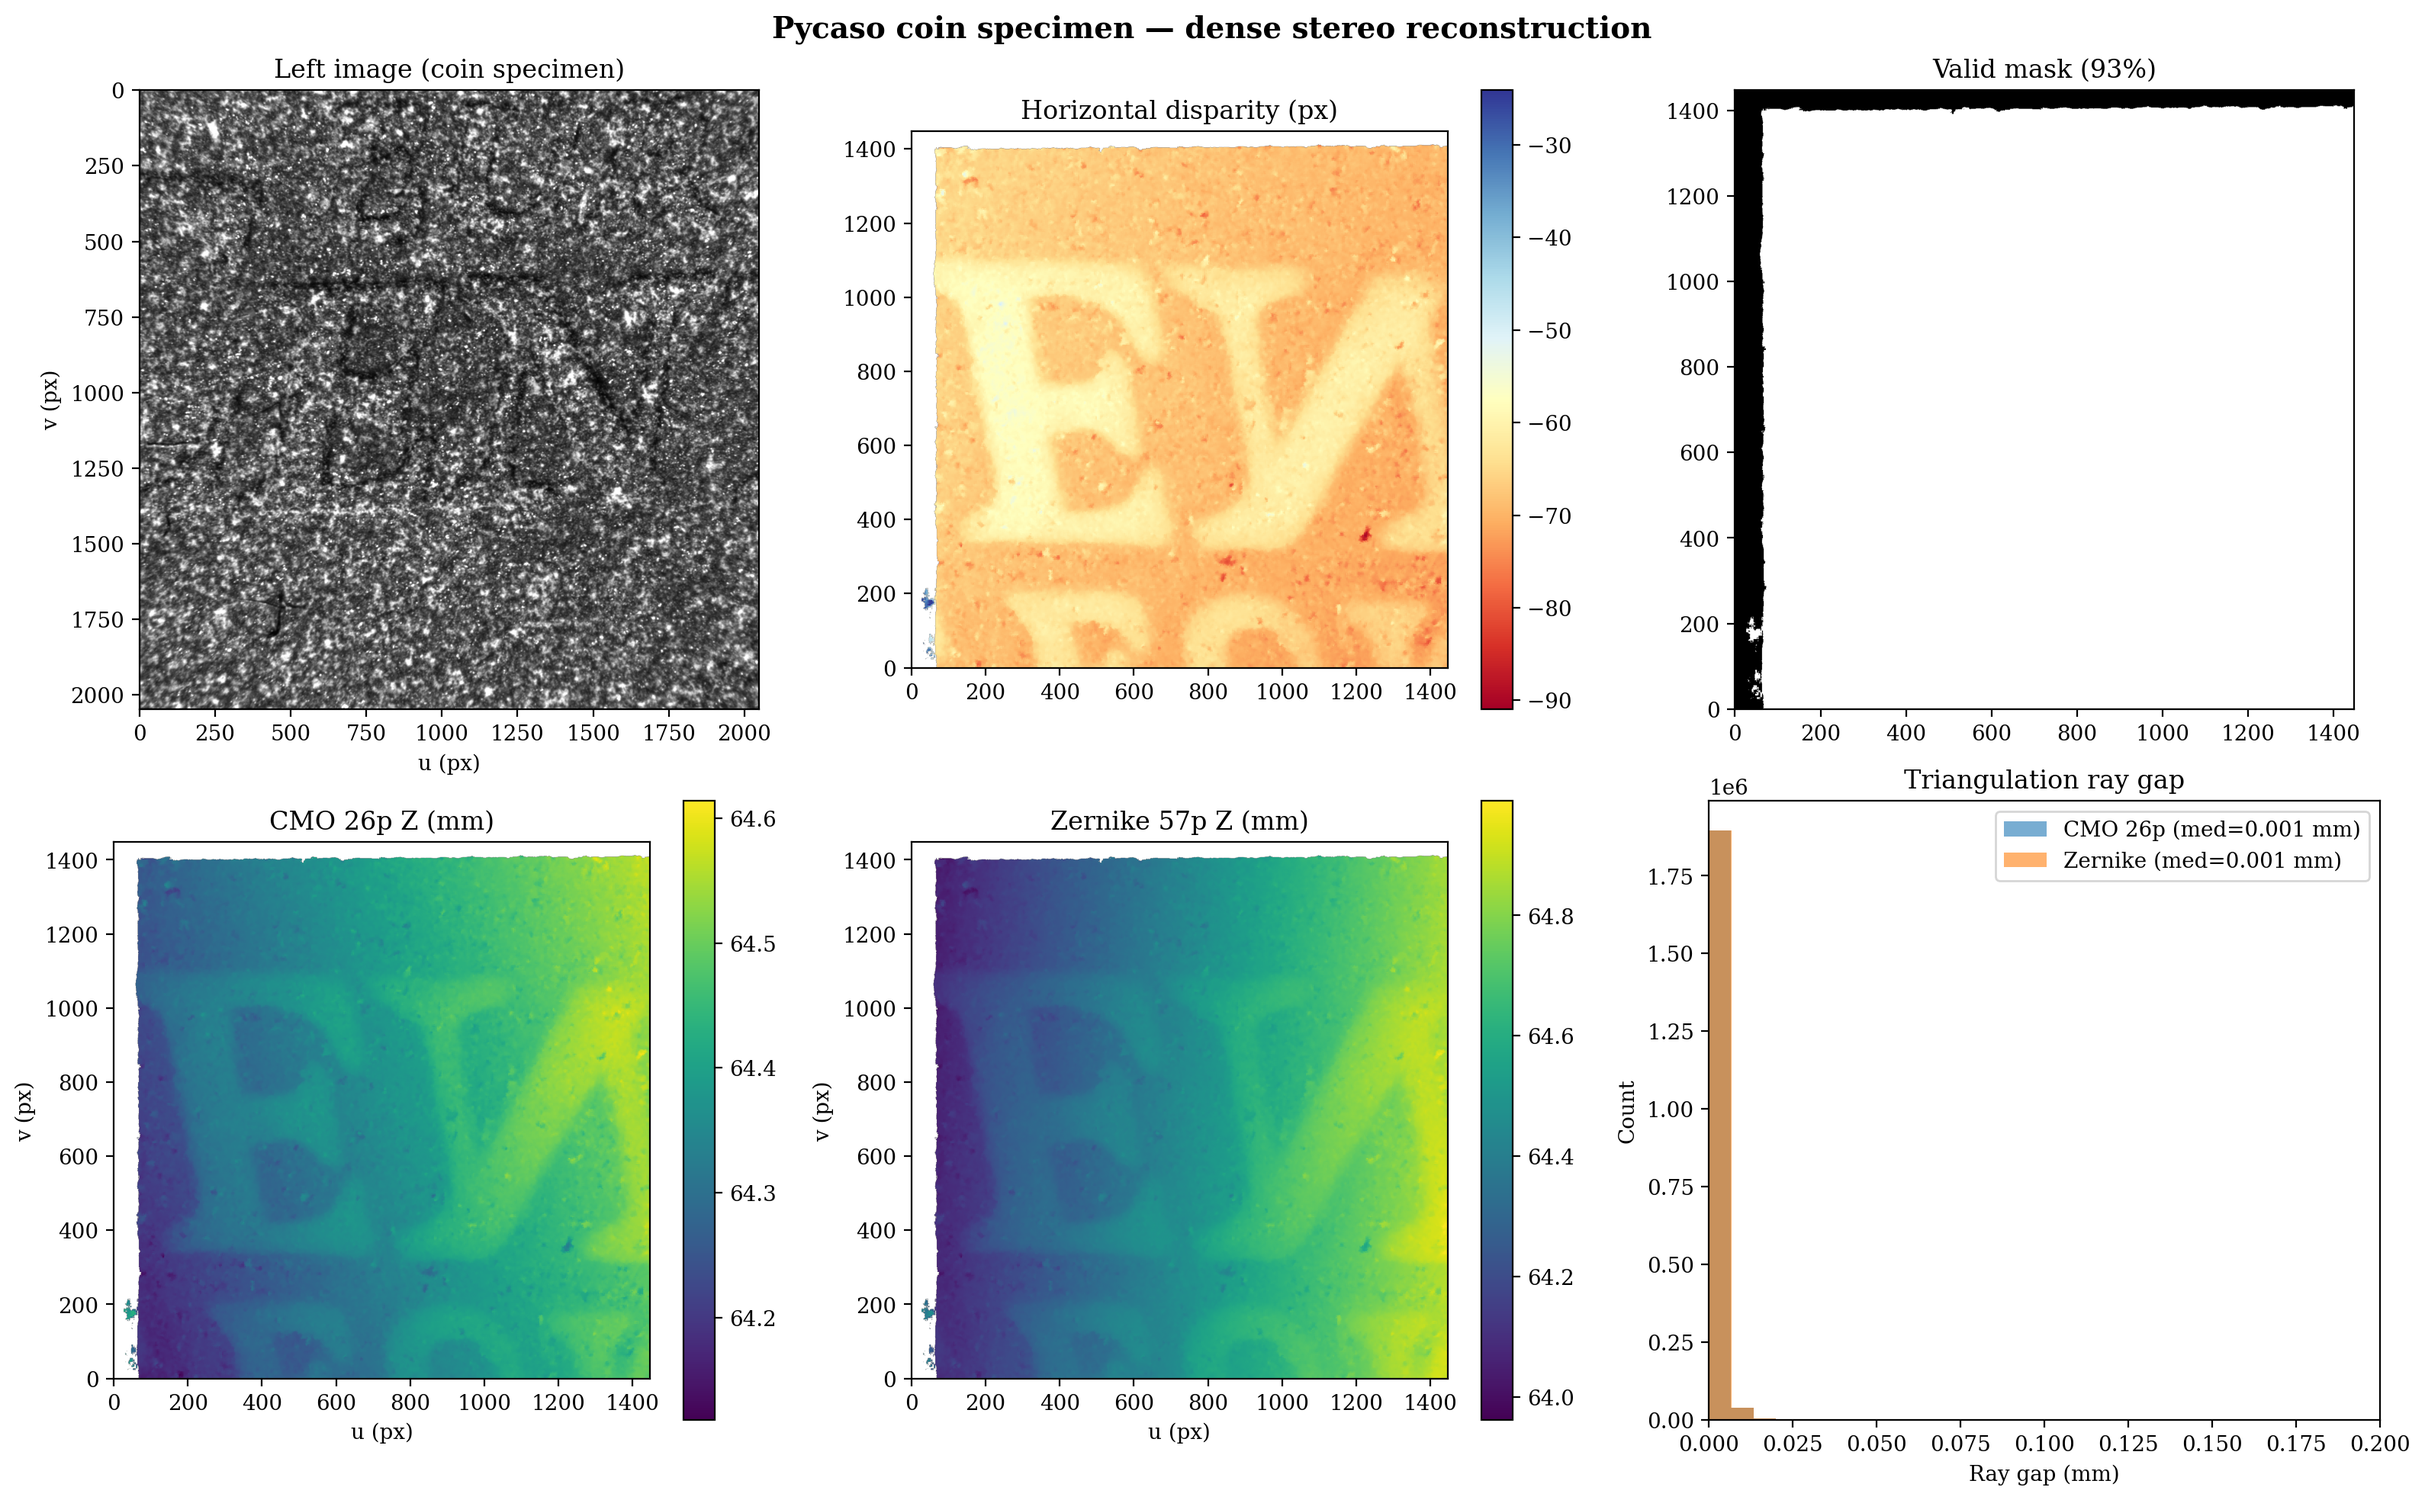
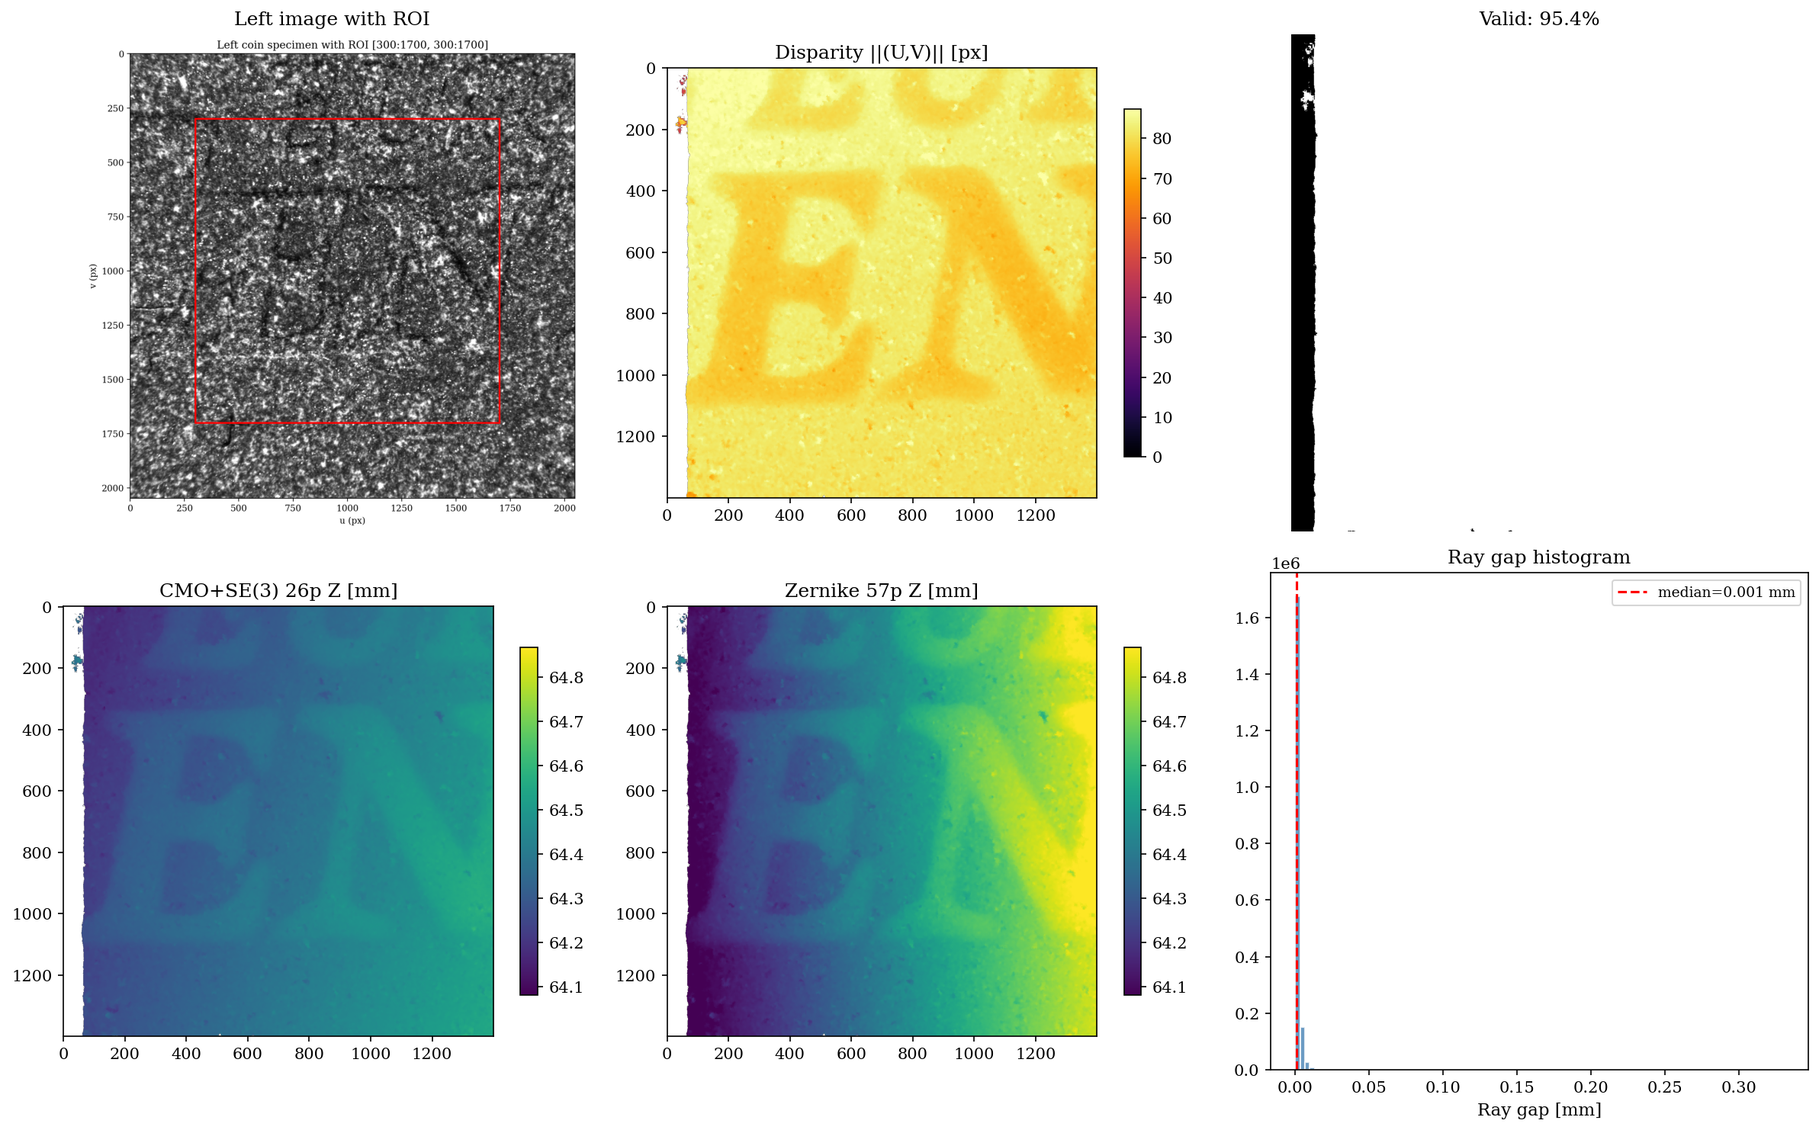
fix(cmo): ROI rectangle on left image + ray gap histogram in Figure 9

diff --git a/examples/notebooks/10_pycaso_specimen_reconstruction.py b/examples/notebooks/10_pycaso_specimen_reconstruction.py
@@ -7,6 +7,7 @@ import numpy as np
 sys.path.insert(0, 'src')
 
 import cv2
+import matplotlib.patches as mpatches
 import matplotlib
 matplotlib.use('Agg')
 import matplotlib.pyplot as plt
@@ -237,8 +238,14 @@ print(f"\nMetrics: CMO Z_MAD={roughness_cmo:.4f} mm, Zernike Z_MAD={roughness_ze
 print("\nGenerating figure...")
 fig, axes = plt.subplots(2, 3, figsize=(16, 10))
 
-# Row 0: left image, disparity, valid mask
-axes[0,0].imshow(imgL, cmap='gray'); axes[0,0].set_title('Left image (coin specimen)')
+# Row 0: left image with ROI rectangle, disparity, valid mask
+roi_img = cv2.imread(str(PYCASO / 'left_identification' / 'coin.tif'), cv2.IMREAD_GRAYSCALE)
+axes[0,0].imshow(roi_img, cmap='gray')
+import matplotlib.patches as patches
+rect = patches.Rectangle((roi_x0, roi_y0), roi_x1-roi_x0, roi_y1-roi_y0,
+                          linewidth=2, edgecolor='red', facecolor='none')
+axes[0,0].add_patch(rect)
+axes[0,0].set_title('Left image with ROI')
 axes[0,0].set_xlabel('u (px)'); axes[0,0].set_ylabel('v (px)')
 
 disp_map = np.full((h_roi, w_roi), np.nan)
